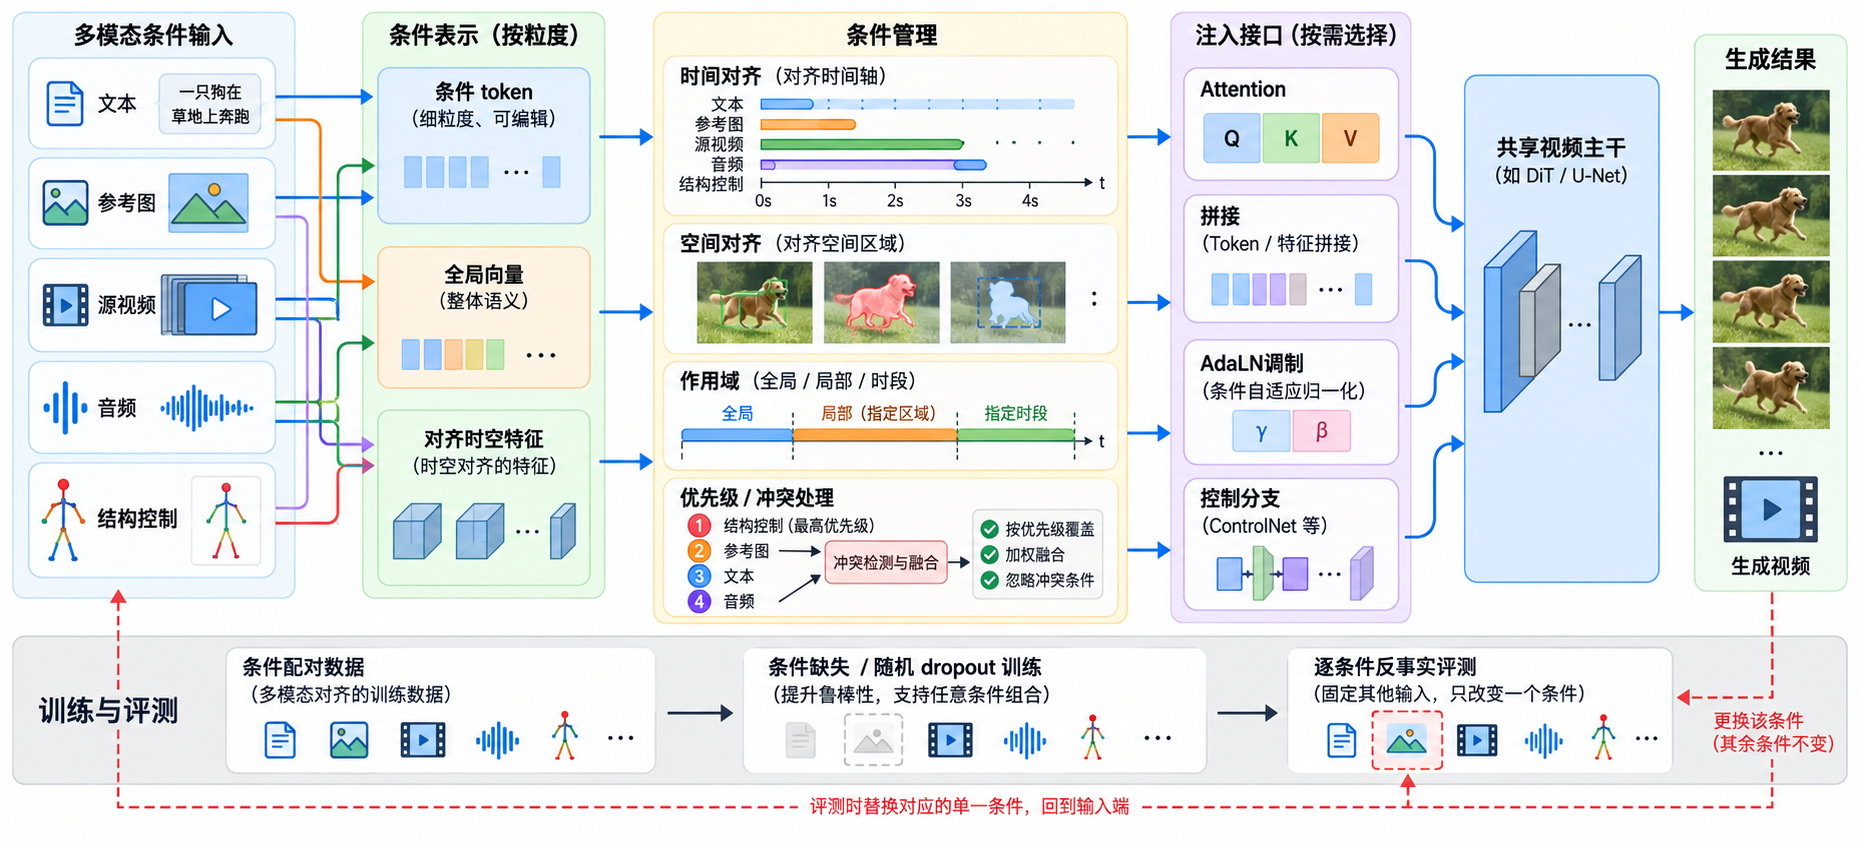
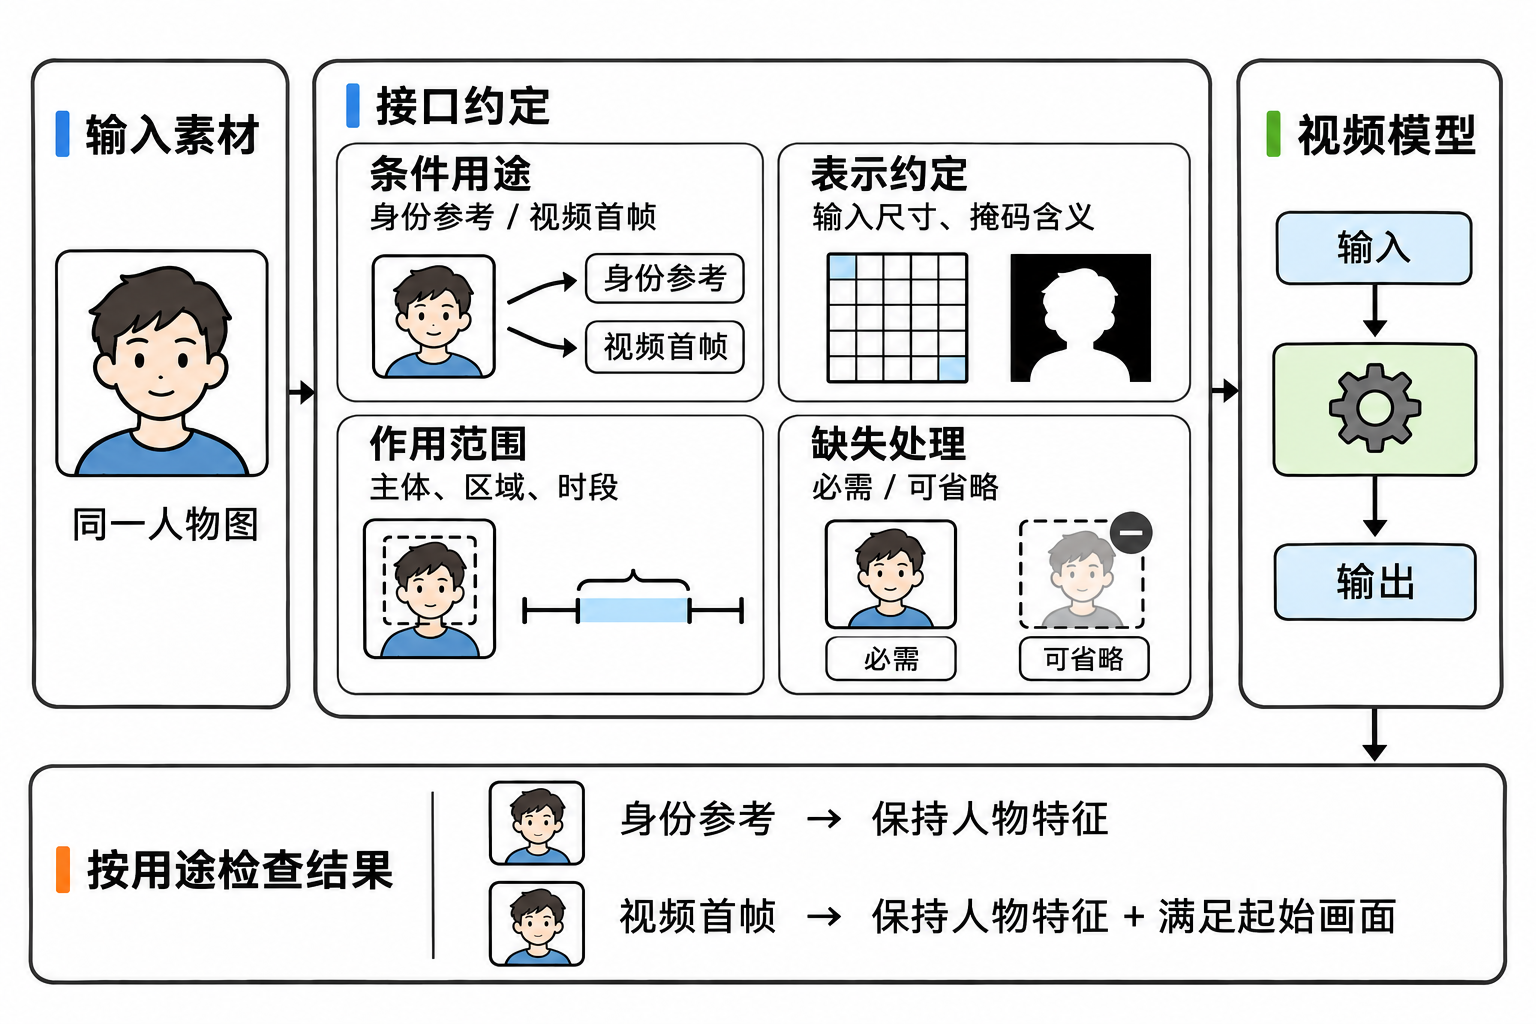
更新视频板块06章节配图

diff --git a/AI视频基础（精华版）/06_AI视频多任务建模、创作工作流与能力拓展.md b/AI视频基础（精华版）/06_AI视频多任务建模、创作工作流与能力拓展.md
@@ -248,11 +248,11 @@
 
 接口约定清楚后，还需验证模型是否真正按约定使用条件。例如，将同一人物图分别作为身份参考和首帧输入，应检查前者是否保持人物特征、后者是否还满足起始画面的要求。
 
-图6-1展示了条件从输入到模型执行与评测的整体关系；*具体的编码与时空对齐方法见[4.6.3.2](#4.6.3.2_面试问题：多任务视频模型如何组织不同条件，并保留各自的用途与对应关系？)。*
+图6-1展示了条件接口的四项约定，以及如何按用途检查模型结果；*具体的编码与时空对齐方法见[4.6.3.2](#4.6.3.2_面试问题：多任务视频模型如何组织不同条件，并保留各自的用途与对应关系？)。*
 
 <div align="center">
-  <img src="./imgs/ch06/fig-6-01-unified-condition-interface.png" alt="文本、参考图、源视频、音频和结构控制经条件表示、时空对齐、作用域与冲突管理后，通过可选注入接口进入共享视频主干，并配合条件缺失训练和逐条件反事实评测" width="780">
-  <p>图6-1 多模态条件从输入到生成与评测的完整链路</p>
+  <img src="./imgs/ch06/fig-6-01-unified-condition-interface.png" alt="条件接口需明确用途、表示、作用范围和缺失处理，并分别检查身份参考的人物特征保持与首帧条件的起始画面要求" width="780">
+  <p>图6-1 条件接口的四项约定与按用途验证</p>
 </div>
 
 > **面试速答**：条件接口需要明确用途、表示、作用范围和缺失处理。同一张图作为身份参考或视频首帧，要求不同；掩码值和条件省略方式也必须约定清楚。接口能接收输入之后，还要验证模型是否按对应任务要求使用它。
